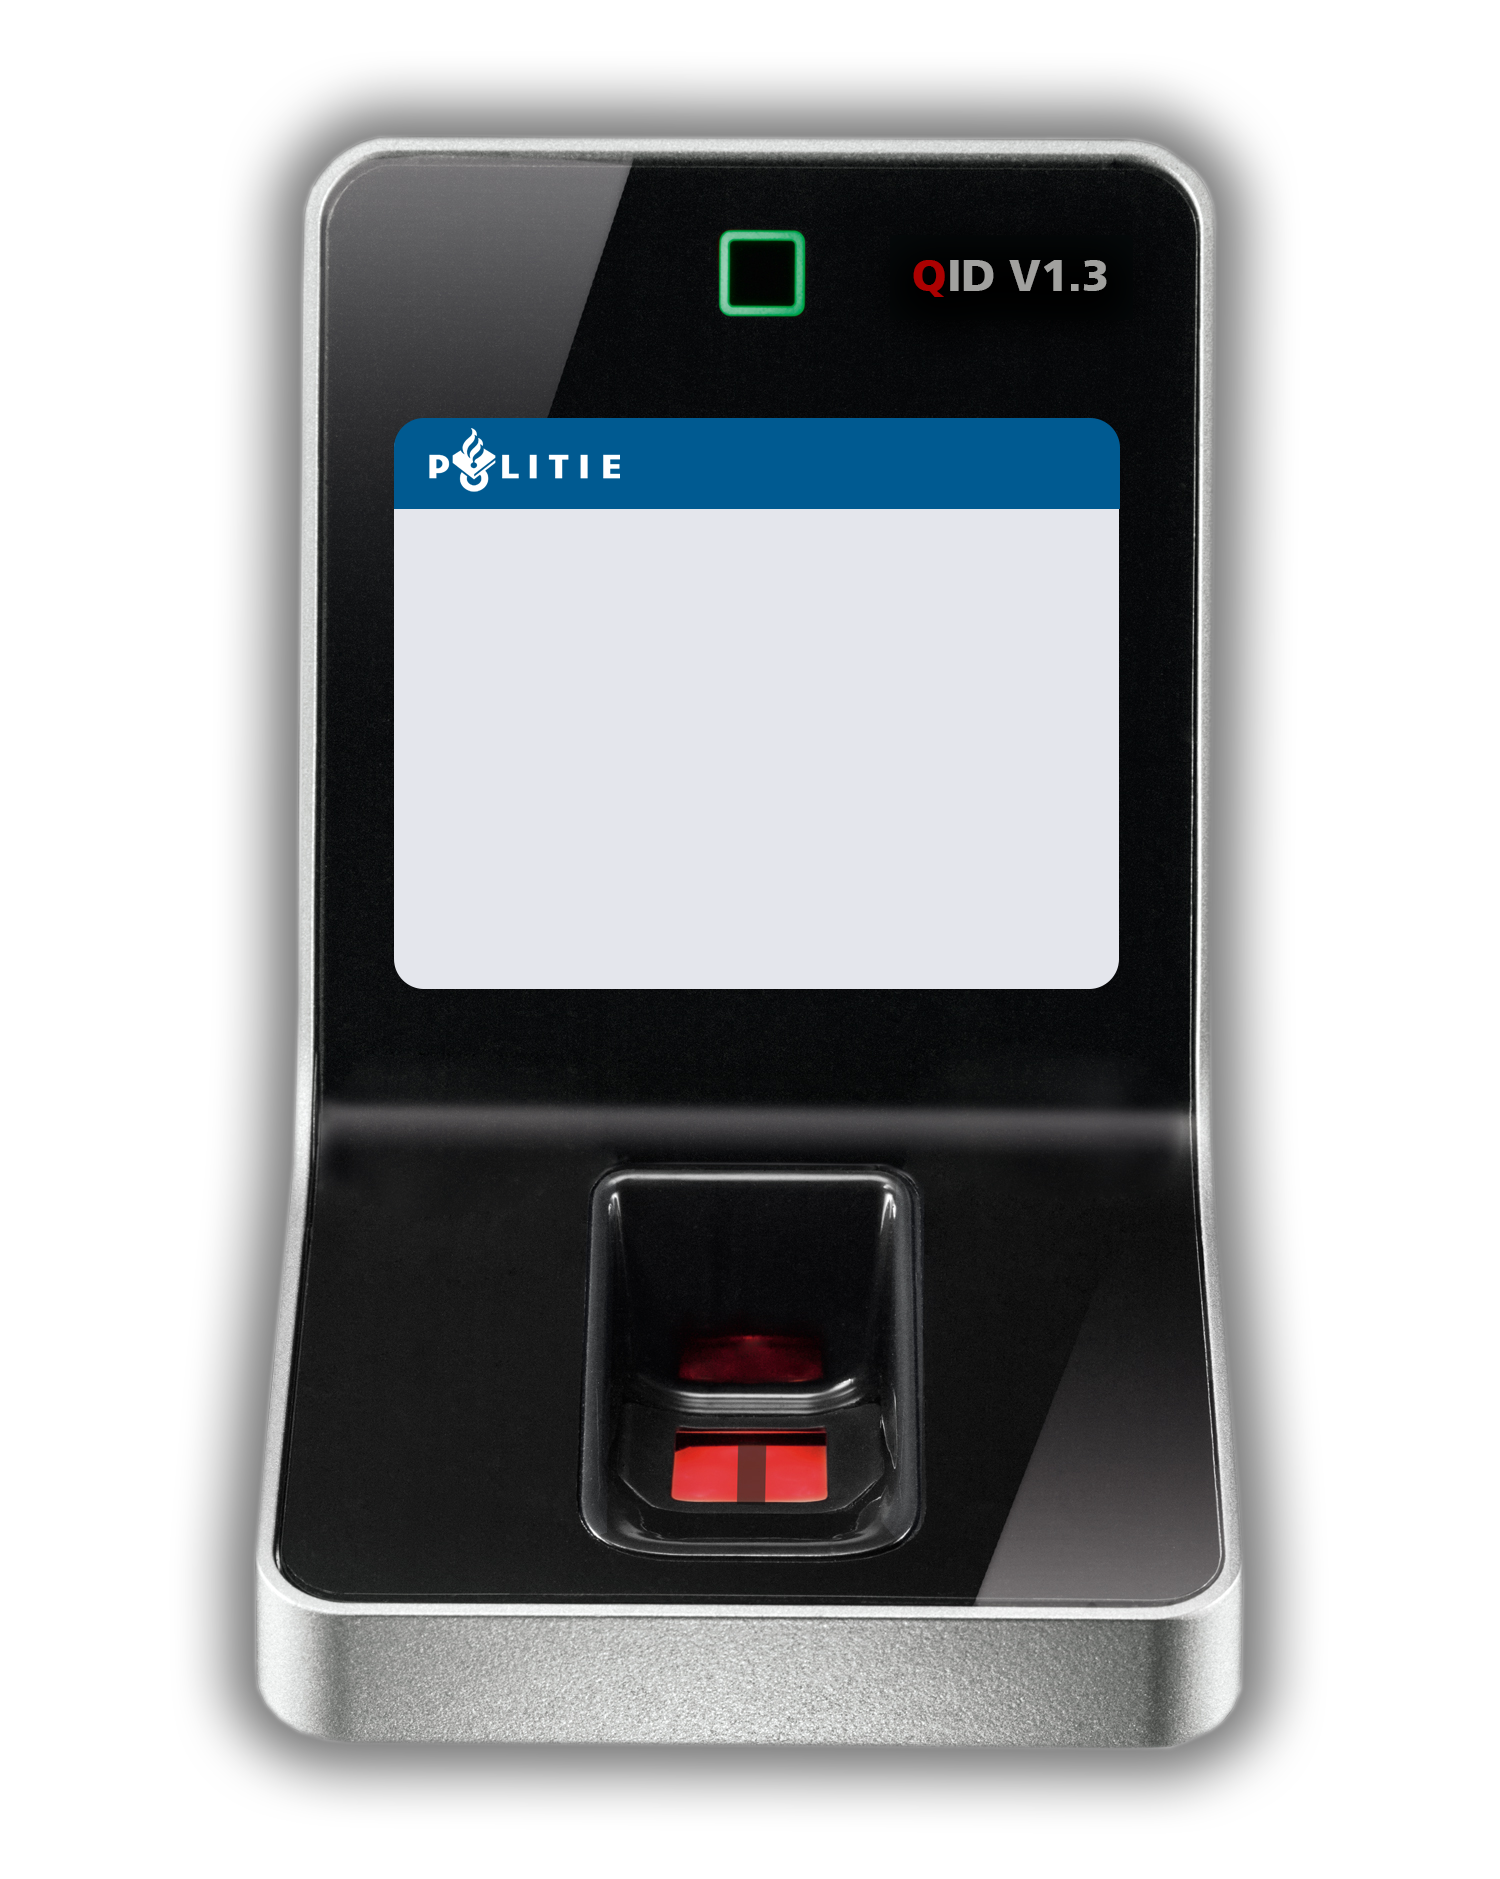
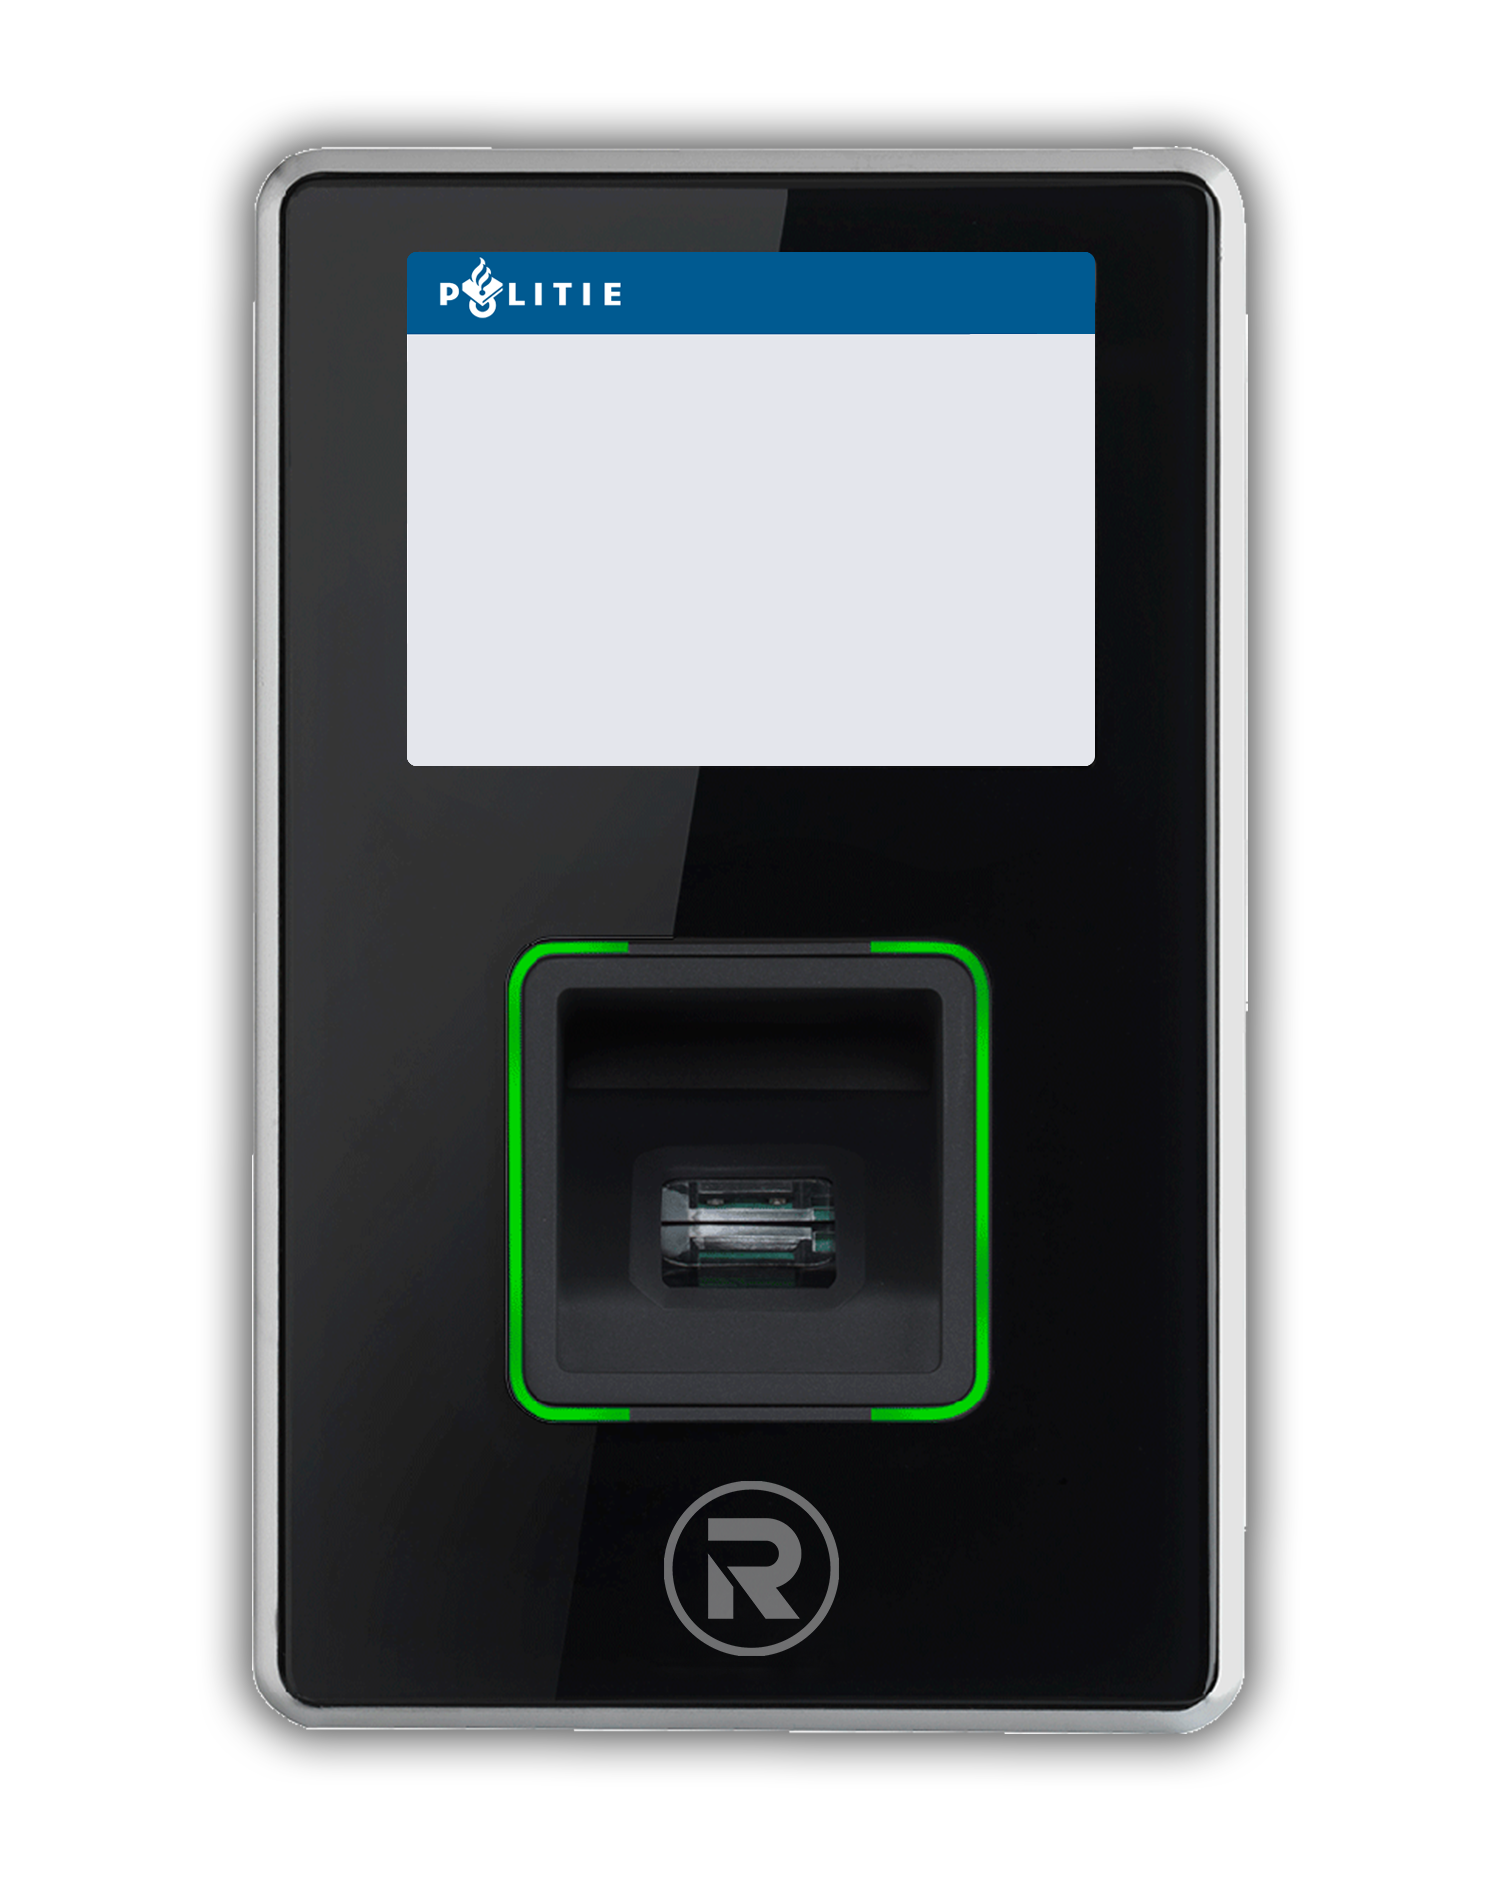
Redesigned fingerpint scanner

diff --git a/FXServer/server-data/resources/[standalone]/police/html/index.html b/FXServer/server-data/resources/[standalone]/police/html/index.html
@@ -178,14 +178,15 @@
             }
             .take-fingerprint {
                 position: absolute;
-                height: 12.5vh;
-                width: 10vh;
-                background: rgba(250, 250, 250, 0.45);
+                height: 15.6vh;
+                width: 15.4vh;
+                background: rgba(250, 250, 250, 0.2);
                 margin: 0 auto;
                 left: 0;
                 right: 0;
-                bottom: 15vh;
+                bottom: 20.1vh;
                 transition: 0.1s;
+                border-radius: 7px;
             }
             .take-fingerprint:hover {
                 background: rgba(250, 250, 250, 0.65);
@@ -194,7 +195,7 @@
                 position: absolute;
                 width: 22vh;
                 height: 13vh;
-                top: 23vh;
+                top: 13vh;
                 margin: 0 auto;
                 left: 0;
                 right: 0;
